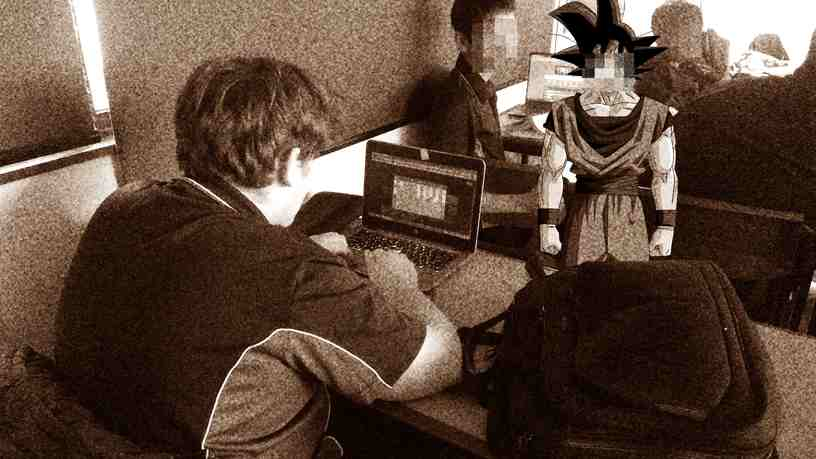
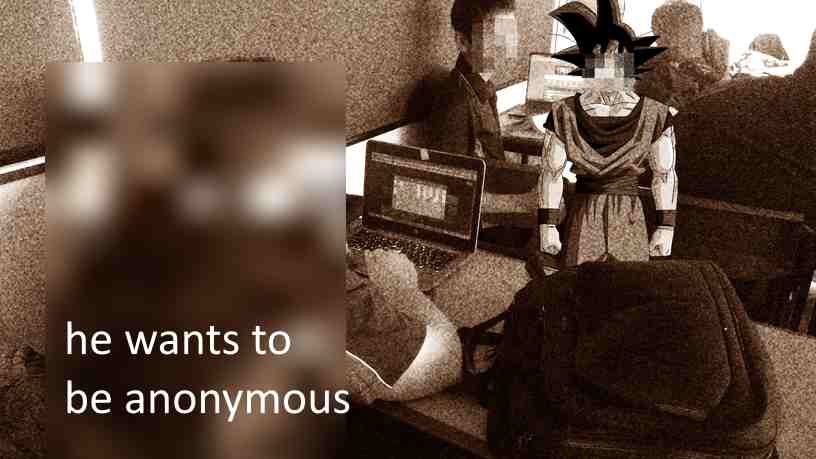
censorship
literally 1984

Changed region(s): [[0.0306, 0.122, 0.4289, 1.0], [0.0919, 0.976, 0.1225, 1.0]]

diff --git a/breaking.html b/breaking.html
@@ -165,17 +165,17 @@
         
         <div class="article-content">
             <div class="image-container">
-                <img src="./Assets/nwes.jpg" alt="Tyler Weise playing Solitaire during class">
+                <img src="./Assets/nwes.jpg" alt="Tyler STUDENT WHO WANTED TO REMAIN ANONYMOUS BECAUSE HE'S A PUSSY playing Solitaire during class">
                 <div class="image-caption">you see here is the man playing solitaire.</div>
             </div>
             
-            <p>In a development that has sent shockwaves through the educational community, THE SCHOOL is grappling with a significant breach of academic protocol. Student Tyler Weise was documented engaging in unauthorized recreational activities during designated instructional time, specifically playing the computer game Solitaire rather than completing his assigned coursework.</p>
+            <p>In a development that has sent shockwaves through the educational community, THE SCHOOL is grappling with a significant breach of academic protocol. Student Tyler STUDENT WHO WANTED TO REMAIN ANONYMOUS BECAUSE HE'S A PUSSY was documented engaging in unauthorized recreational activities during designated instructional time, specifically playing the computer game Solitaire rather than completing his assigned coursework.</p>
             
-            <p>The incident, which occurred during a critical English literature creative writing session which includes english work, was first brought to light when classmates observed Weise's conspicuous lack of engagement with the curriculum.</p>
+            <p>The incident, which occurred during a critical English literature creative writing session which includes english work, was first brought to light when classmates observed STUDENT WHO WANTED TO REMAIN ANONYMOUS BECAUSE HE'S A PUSSY's conspicuous lack of engagement with the curriculum.</p>
             
-            <div class="quote">"Gay," remarked fellow student Tao when asked for comment on the situation, capturing the general public opinion of hatred towards Weise.</div>
+            <div class="quote">"Gay," remarked fellow student Tao when asked for comment on the situation, capturing the general public opinion of hatred towards STUDENT WHO WANTED TO REMAIN ANONYMOUS BECAUSE HE'S A PUSSY.</div>
             
-            <p>When confronted by fellow students regarding his clear violation of classroom expectations and the school's work and stuff like that, Weise offered a perplexing response that further confounded administrators.</p>
+            <p>When confronted by fellow students regarding his clear violation of classroom expectations and the school's work and stuff like that, STUDENT WHO WANTED TO REMAIN ANONYMOUS BECAUSE HE'S A PUSSY offered a perplexing response that further confounded administrators.</p>
             
             <div class="quote">"why is there goku in the background," he stated, even though goku isn't there.</div>
             
@@ -184,19 +184,19 @@
             <div class="quote">"So I'm more of a tits guy than an ass guy because not everyone has tits but everyone has an ass," commented a peer who wished to remain anonymous, fax broski fr fr.</div>
             
             <div class="image-container">
-                <img src="./Assets/nwes2.jpg" alt="Tyler Weise">
-                <div class="image-caption">Tyler Weise (60,000 BC - 2025 AD)</div>
+                <img src="./Assets/nwes2.jpg" alt="Tyler STUDENT WHO WANTED TO REMAIN ANONYMOUS BECAUSE HE'S A PUSSY">
+                <div class="image-caption">Tyler STUDENT WHO WANTED TO REMAIN ANONYMOUS BECAUSE HE'S A PUSSY (60,000 BC - 2025 AD)</div>
             </div>
             
             <p>The faculty response has been one of profound disappointment.</p>
             
-            <div class="quote">"Oh um, I'm just so… I'm just so. I am… I am lost for words, disappointed, disgraced. Just unbelievable," stated Ms. Moxey, Weise's English teacher, who has built an impressive seventeen quadrillion year teaching experience thingamajig in the education field. Colleagues describe Moxey as "woman".</div>
+            <div class="quote">"Oh um, I'm just so… I'm just so. I am… I am lost for words, disappointed, disgraced. Just unbelievable," stated Ms. Moxey, STUDENT WHO WANTED TO REMAIN ANONYMOUS BECAUSE HE'S A PUSSY's English teacher, who has built an impressive seventeen quadrillion year teaching experience thingamajig in the education field. Colleagues describe Moxey as "woman".</div>
             
-            <p>Following a hastily convened disciplinary tribunal and emergency school board session, Tyler Weise was executed via electric chair for his crimes, with the ruling citing the "egregious nature of the offense and the need to maintain academic integrity throughout the educational system."</p>
+            <p>Following a hastily convened disciplinary tribunal and emergency school board session, Tyler STUDENT WHO WANTED TO REMAIN ANONYMOUS BECAUSE HE'S A PUSSY was executed via electric chair for his crimes, with the ruling citing the "egregious nature of the offense and the need to maintain academic integrity throughout the educational system."</p>
             
             <div class="rip-section">
                 <div class="rip-title">In Memoriam</div>
-                <div class="rip-dates">Tyler Weise<br>60,000 BC - 2025 AD</div>
+                <div class="rip-dates">Tyler STUDENT WHO WANTED TO REMAIN ANONYMOUS BECAUSE HE'S A PUSSY<br>60,000 BC - 2025 AD</div>
                 <p>he liked solitaire</p>
                 <div class="rip-quote">"go fuck yourself"</div>
             </div>
